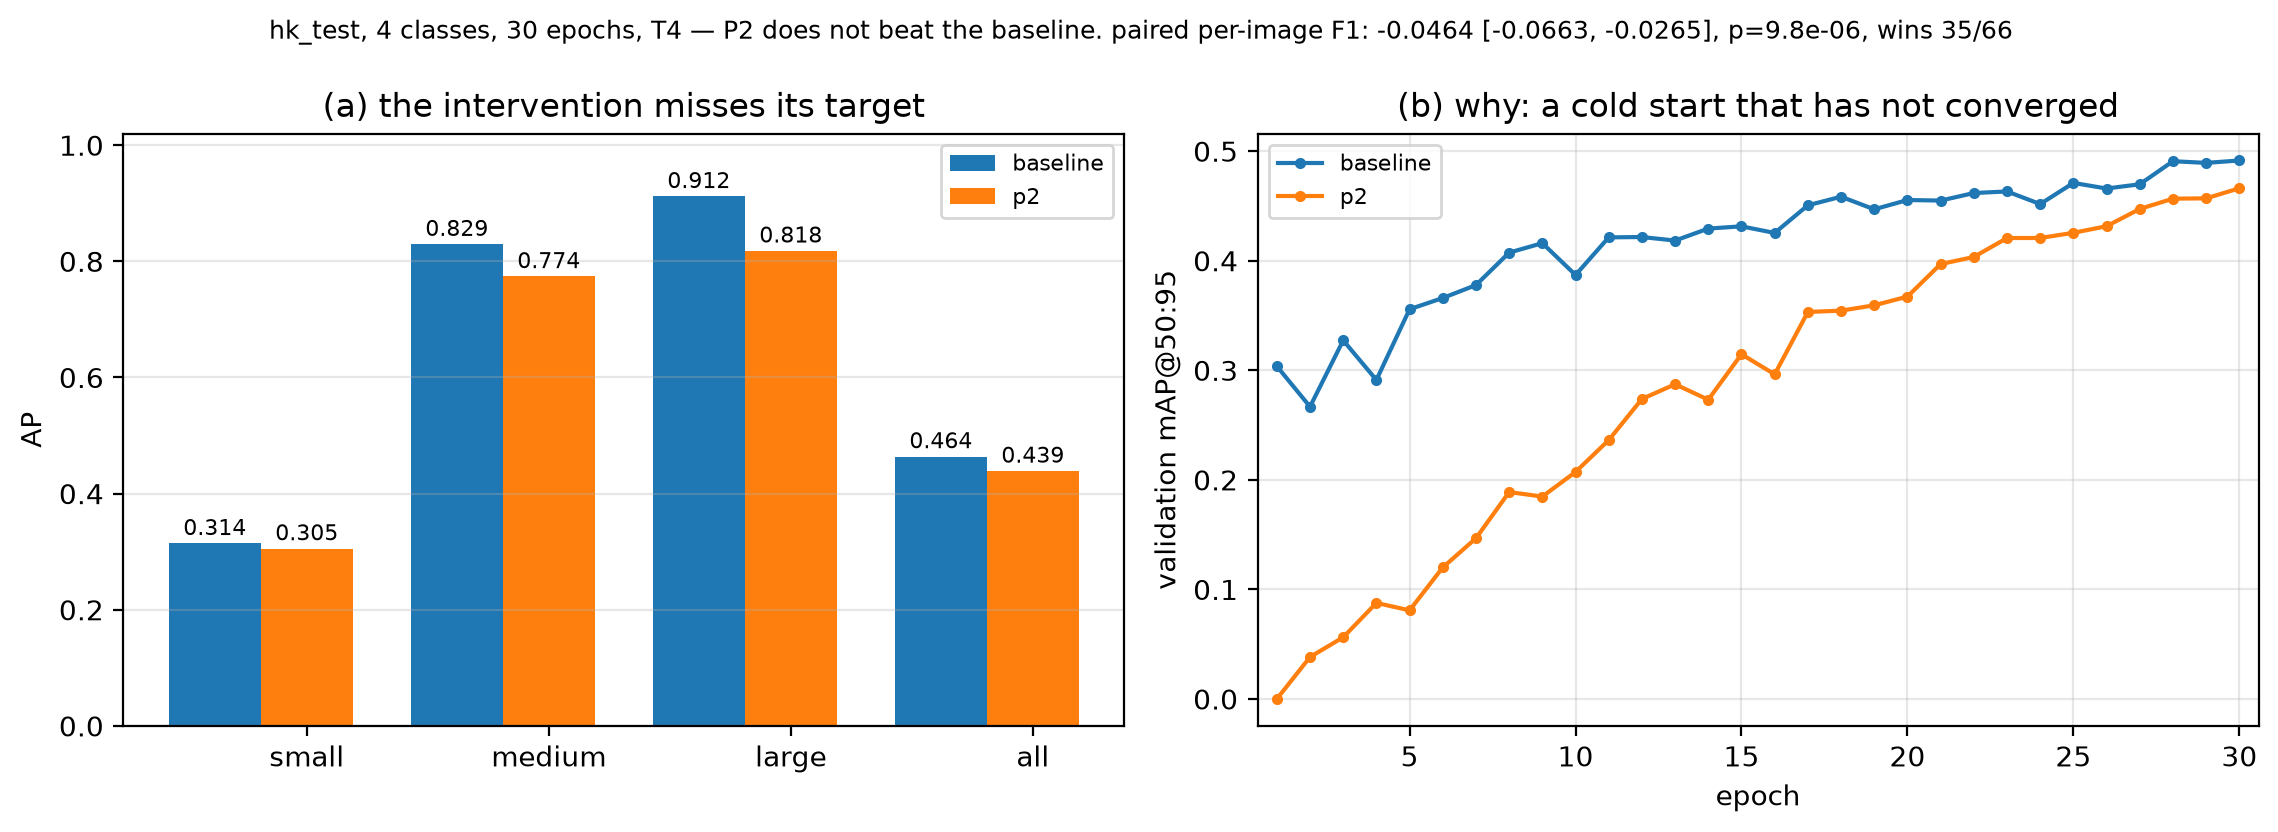
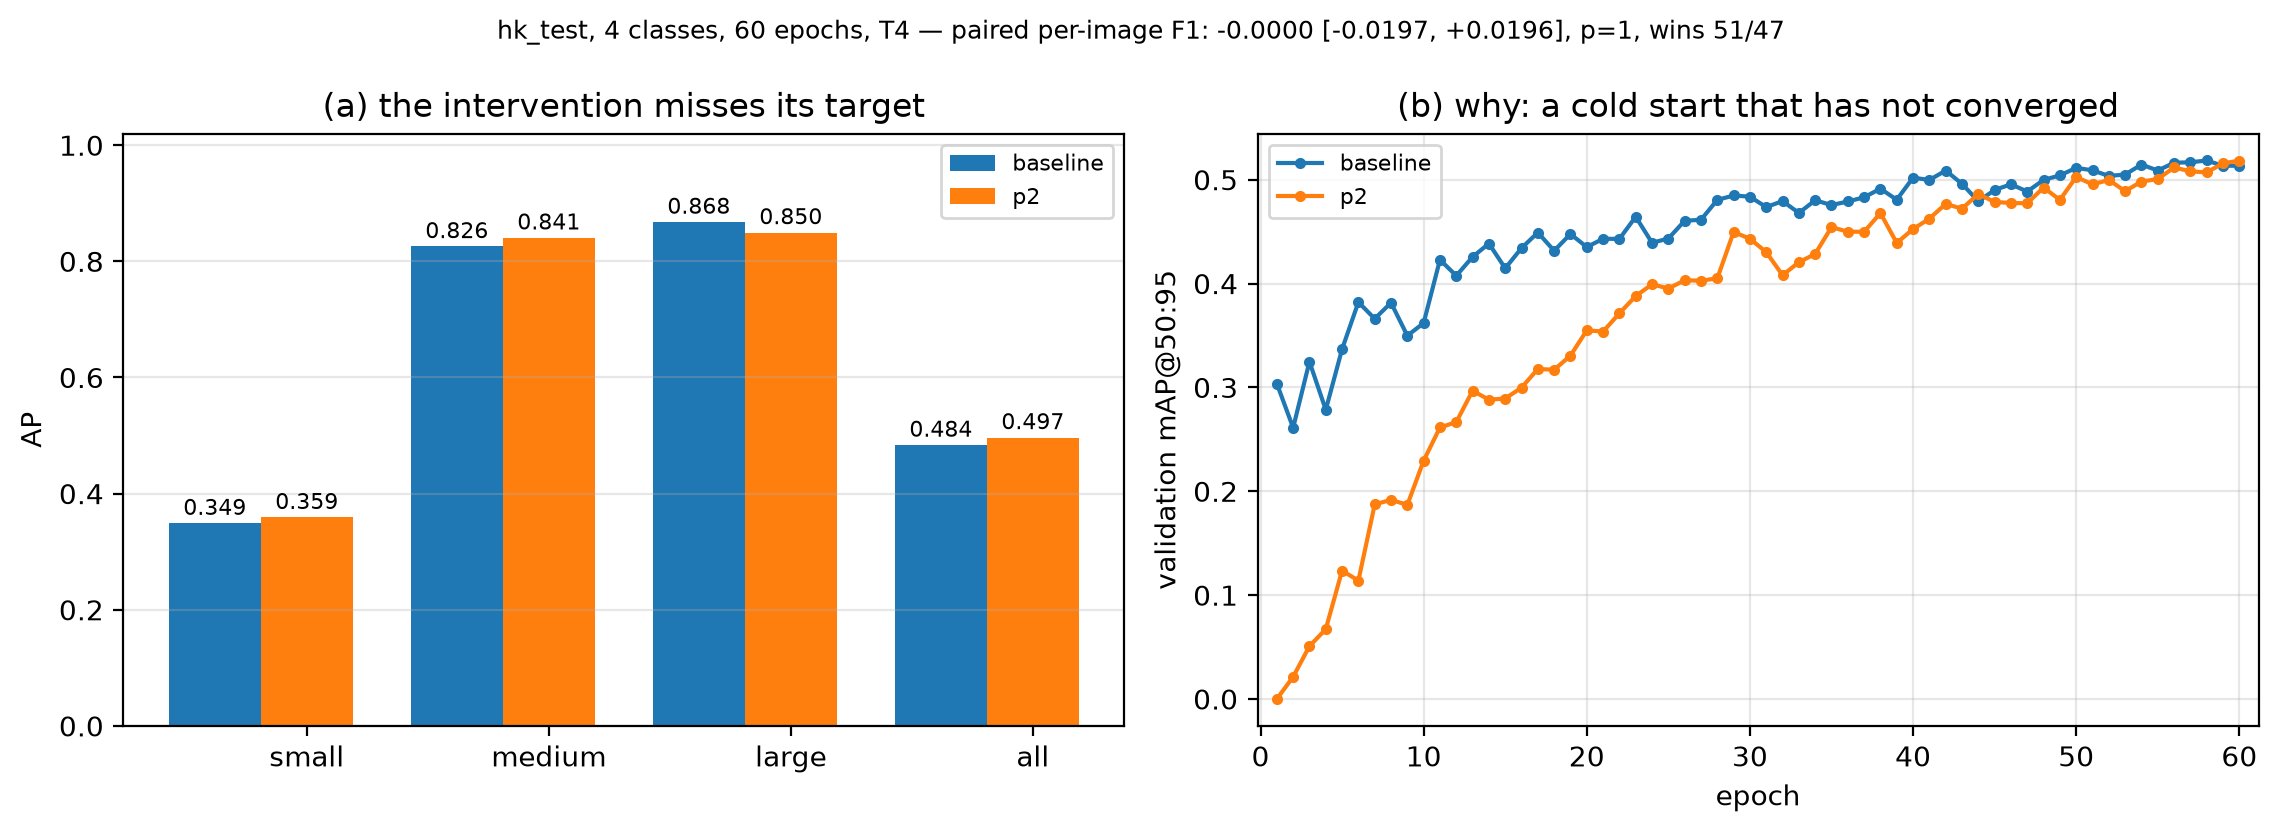
fix(rq5): regenerate the figure from the matched 60-epoch runcard

diff --git a/scripts/plot_rq5.py b/scripts/plot_rq5.py
@@ -1,10 +1,4 @@
-"""RQ5 figure: the P2 ablation and the reason it lost.
-
-Panel (a) splits AP by object size (from the evaluation runcard), which is where
-the intervention was supposed to pay off. Panel (b) shows the validation curve
-of both fine-tunes: the P2 model starts from zero because its new branch and
-head are randomly initialised, and is still climbing when the budget runs out.
-"""
+"""RQ5 figure: the P2 ablation and the reason it lost."""
 
 from __future__ import annotations
 
@@ -92,16 +86,17 @@ def main() -> int:
     right.legend(fontsize=8)
     right.margins(x=0.02)
 
-    paired = Path("results/tables/rq5_paired_test.csv")
+    paired_meta = card.get("extra", {}).get("paired", {})
     note = ""
-    if paired.exists():
-        row = pd.read_csv(paired).iloc[0]
+    if paired_meta.get("mean_difference") is not None:
         note = (
-            f"paired per-image F1: {row['mean_difference']:+.4f} "
-            f"[{row['ci95_low']:+.4f}, {row['ci95_high']:+.4f}], "
-            f"p={row['p_value']:.1e}, wins {int(row['modified_wins'])}/{int(row['baseline_wins'])}"
+            f"paired per-image F1: {paired_meta['mean_difference']:+.4f} "
+            f"[{paired_meta['ci95_low']:+.4f}, {paired_meta['ci95_high']:+.4f}], "
+            f"p={paired_meta['p_value']:.2g}, "
+            f"wins {int(paired_meta['modified_wins'])}/{int(paired_meta['baseline_wins'])}"
         )
-    fig.suptitle(f"hk_test, 4 classes, 30 epochs, T4 — P2 does not beat the baseline. {note}", fontsize=9)
+    epochs = card["config"].get("epochs", 30)
+    fig.suptitle(f"hk_test, 4 classes, {epochs} epochs, T4 — {note}", fontsize=9)
 
     out = Path(args.out)
     out.parent.mkdir(parents=True, exist_ok=True)

diff --git a/docs/results.md b/docs/results.md
@@ -3,7 +3,7 @@
 Consolidated findings for RQ1–RQ5. Every number below comes from a committed
 table under `results/tables/` and a runcard under `results/runs/` (ignored by
 git). Frozen artefacts: the task set in `data/annotations/` and
-`hk_dataset_manifest.json`. Code state: `c545fb4`.
+`hk_dataset_manifest.json`.
 
 Hardware: one Google Colab T4 (16 GB), fp32, `imgsz=640`. The local RTX 2070
 SUPER was abandoned after a driver-level BSOD during the first RQ1 attempt.
@@ -24,8 +24,7 @@ SUPER was abandoned after a driver-level BSOD during the first RQ1 attempt.
 
 ### 0.1 Pre-registered protocol
 
-The plan was fixed before the runs (it lived in `docs/plan.md`, removed at the
-end of the sprint; the file is in git history). Its binding decisions, so that
+The plan was fixed before the runs. Its binding decisions, so that
 the reader can tell protocol from post-hoc choice:
 
 - Five RQs, each delivered as one table and one figure.
